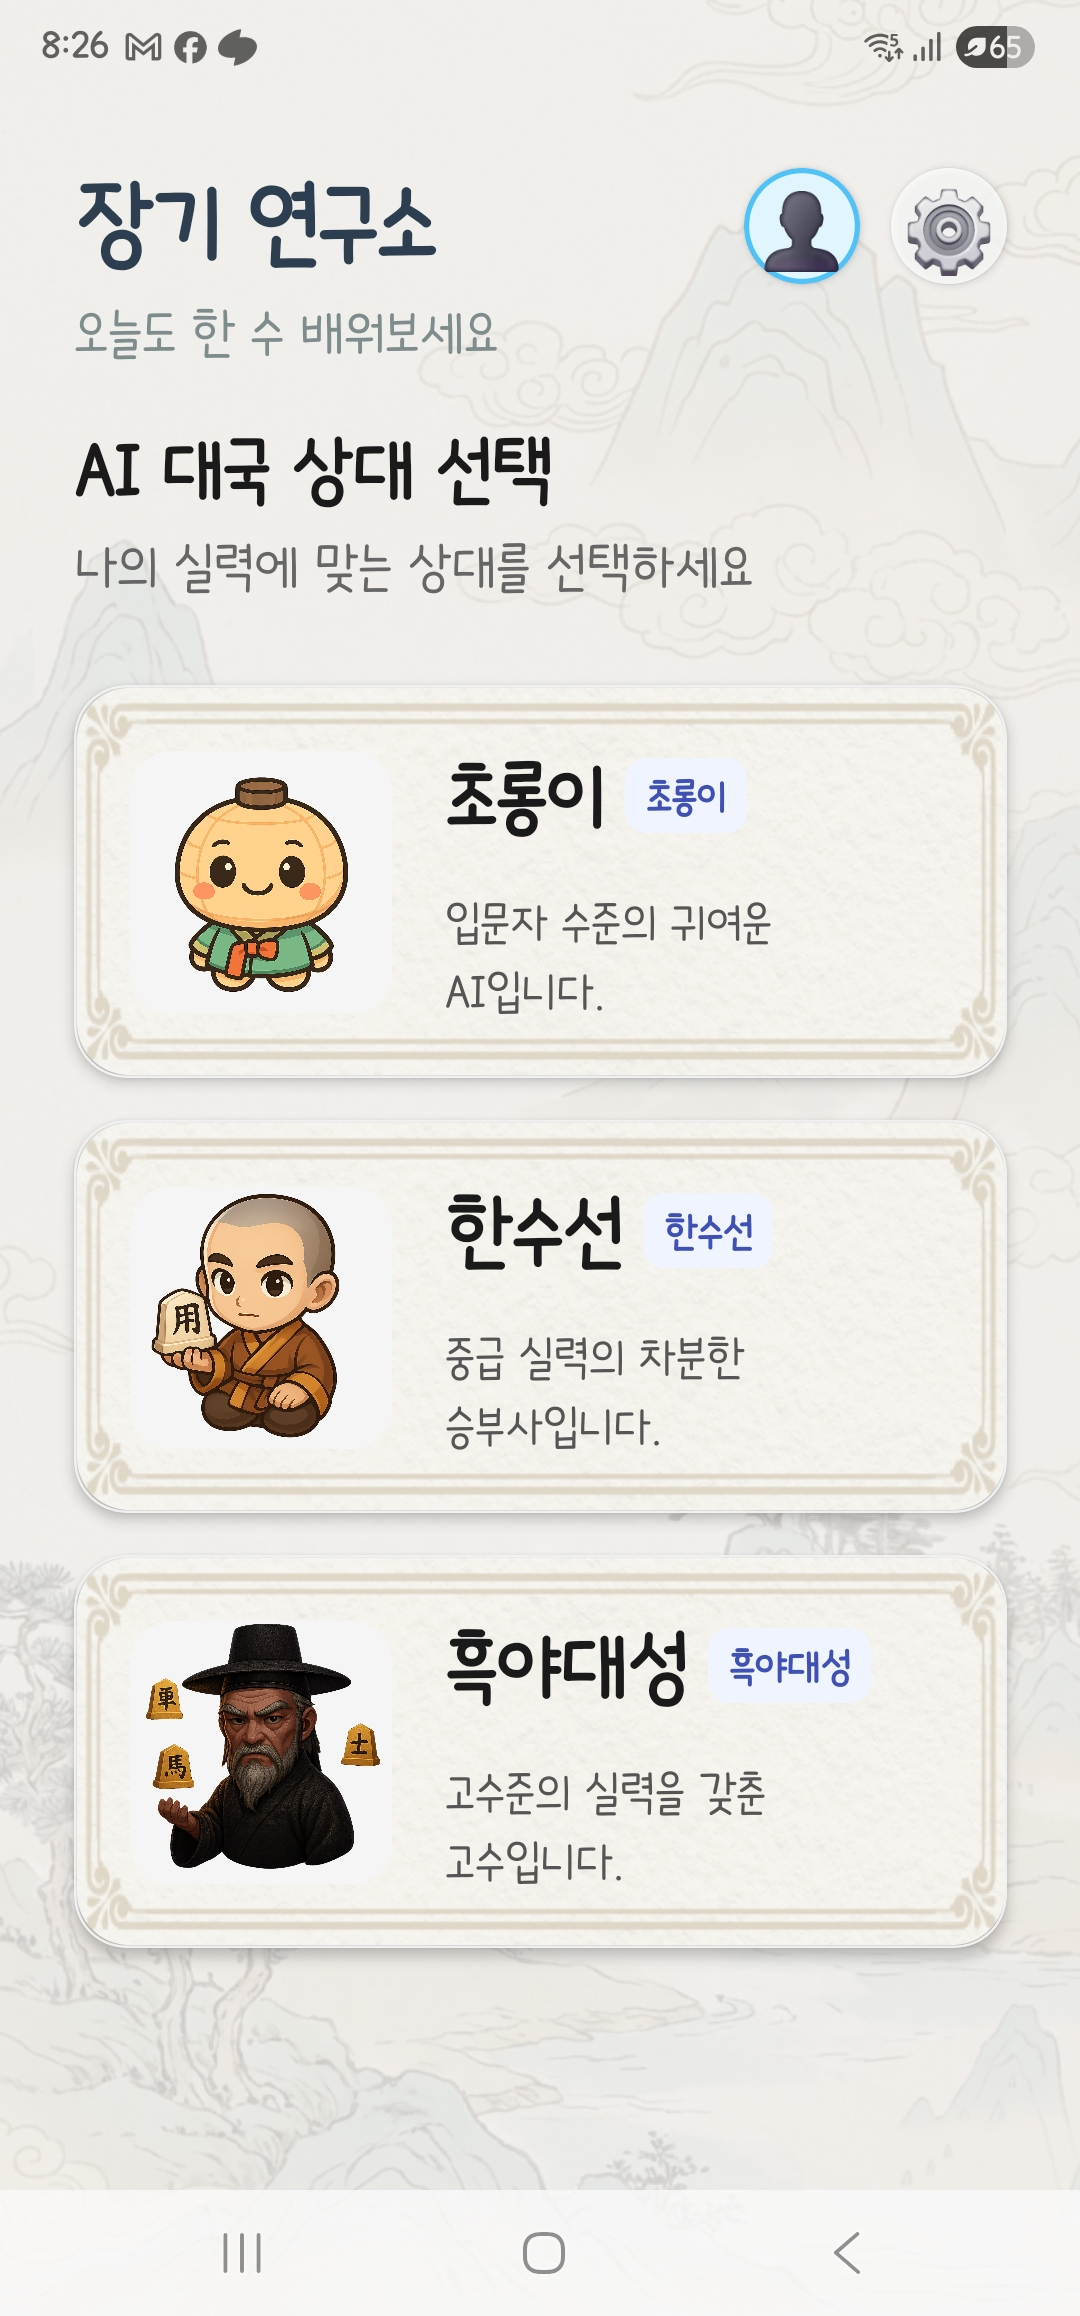
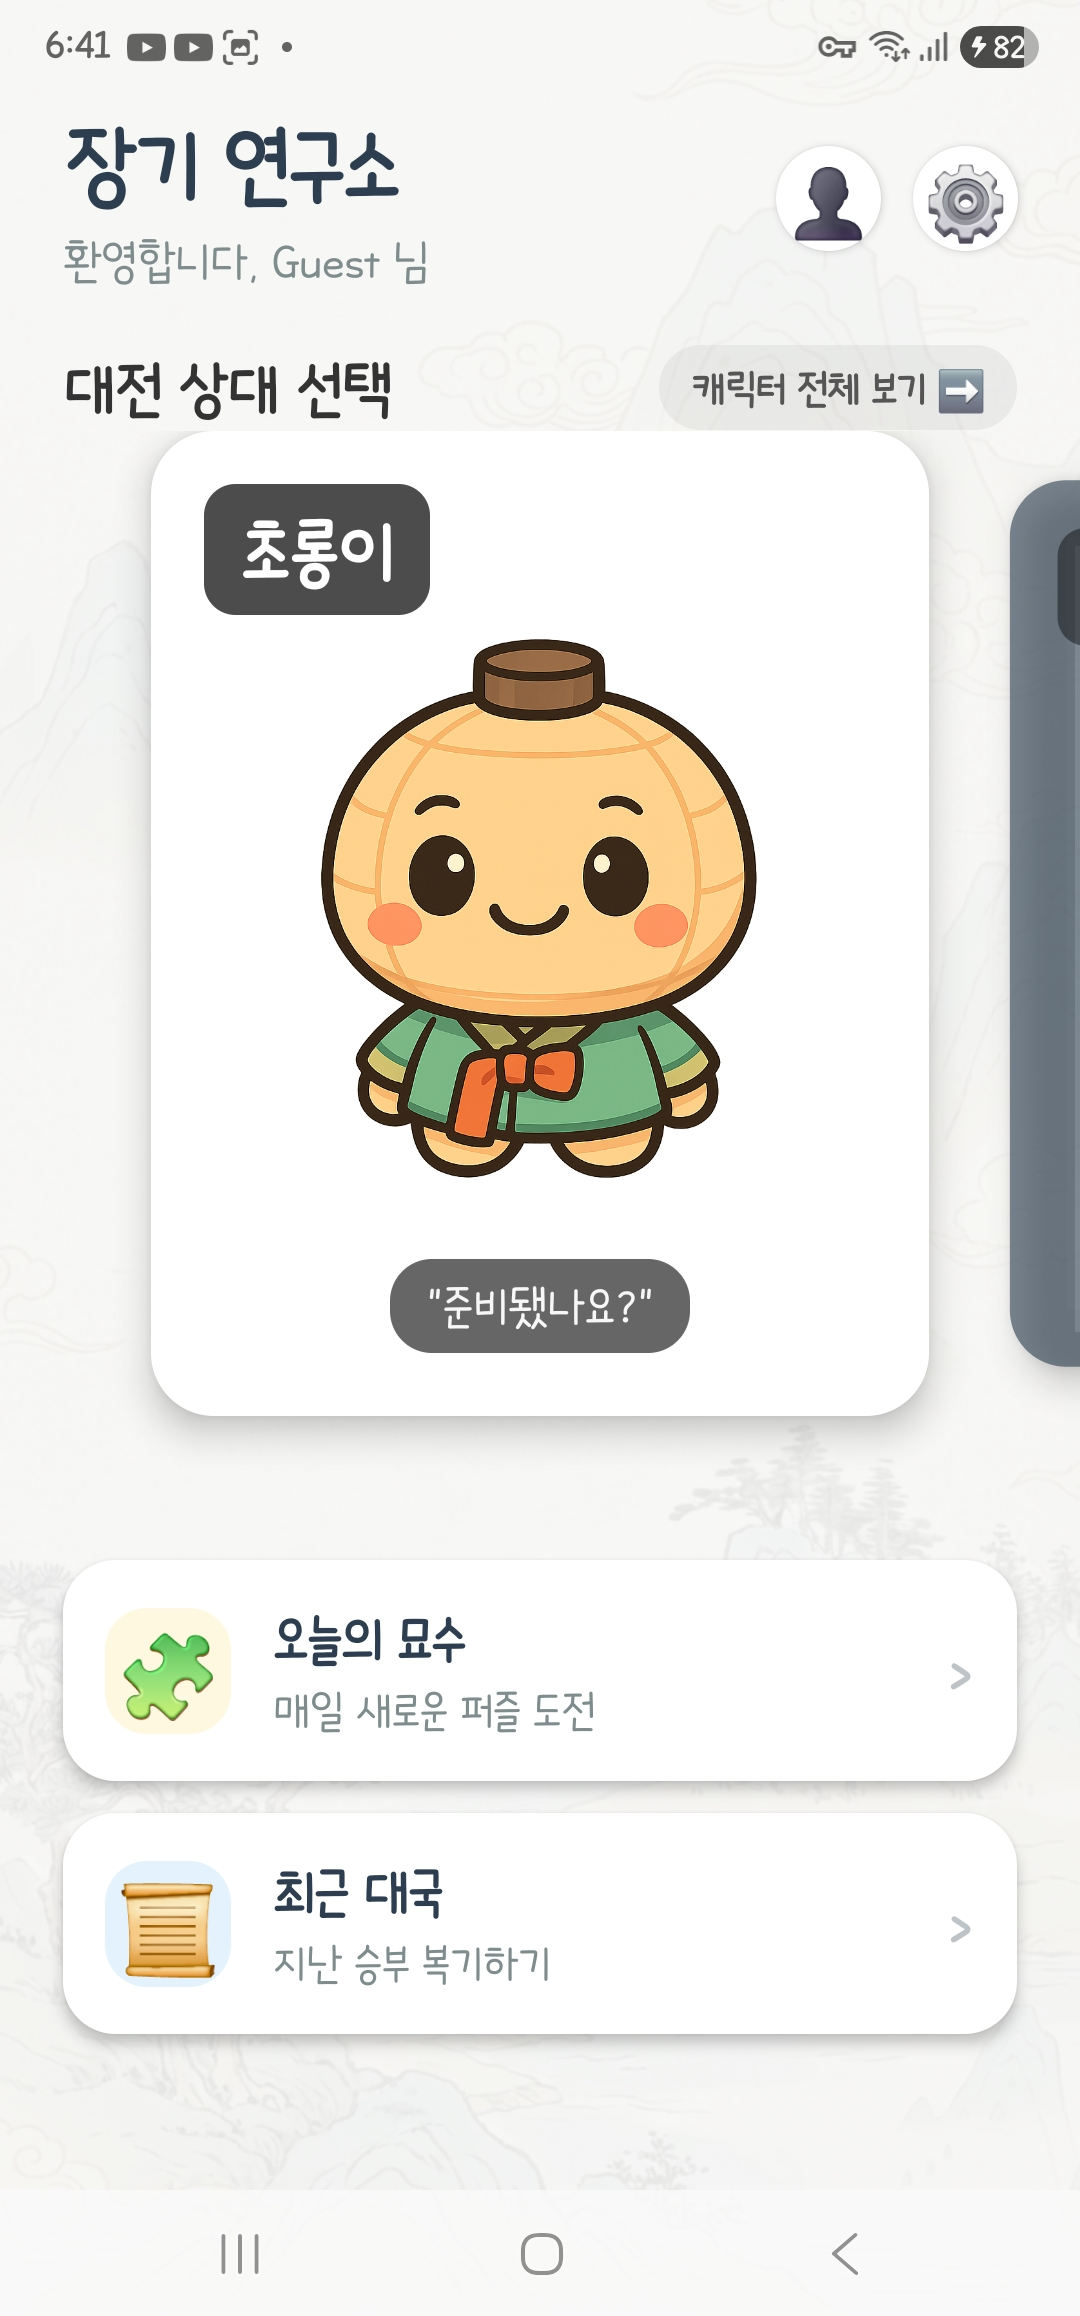
Deploying to main from @ flitsky/Janggi-App@27eb00ee27740ddaba43384ae8ec012460aa2916 🚀

diff --git a/release-note/index.html b/release-note/index.html
@@ -184,14 +184,14 @@
             <div class="version-header">
                 <div style="display: flex; align-items: center; gap: 15px;">
                     <span class="version-tag">v1.6.43</span>
-                    <h2>오늘의 묘수와 클라우드 동기화의 시작</h2>
+                    <h2>오늘의 묘수와 더욱 편리해진 대전 준비</h2>
                 </div>
                 <span class="release-date">2026년 1월 31일</span>
             </div>
 
             <p>
                 매일 새로운 장기 묘수를 풀며 실력을 키울 수 있는 '오늘의 묘수' 모드가 추가되었습니다.<br>
-                또한 구글 로그인을 통해 소중한 대국 기록과 해금한 캐릭터를 클라우드에 안전하게 보관할 수 있습니다.
+                또한 메인 화면에서 대전 상대를 선택하고 해금하는 과정이 대폭 편리해져, 더욱 쾌적하게 도전을 이어갈 수 있습니다.
             </p>
 
             <h3>✨ 주요 변경 사항 (Highlights)</h3>
@@ -209,9 +209,21 @@
                     기기를 변경해도 내 기록 그대로 이어서 즐기실 수 있습니다.
                 </li>
                 <li>
+                    <span class="tag-impr">UX</span>
+                    <strong>대전 상대 선택 편의성 개선</strong><br>
+                    이제 메인 화면에서 잠긴 캐릭터를 터치하면 즉시 광고 시청 팝업이 뜨며, 해금 진행 상황도 바로 확인할 수 있습니다.<br>
+                    더 이상 해금을 위해 별도의 메뉴로 이동하지 않아도 됩니다.
+                </li>
+                <li>
                     <span class="tag-impr">Design</span>
-                    <strong>프리미엄 UI 리뉴얼</strong><br>
-                    앱 전반에 걸쳐 더욱 세련되고 깔끔한 프리미엄 디자인 테마가 적용되었습니다.
+                    <strong>캐릭터 도감(Catalog) 리뉴얼</strong><br>
+                    기존의 캐릭터 선택 화면을 깔끔한 '도감' 형태로 개편했습니다.<br>
+                    복잡한 메뉴 없이 오직 캐릭터들의 개성과 해금 여부만을 한눈에 감상할 수 있습니다.
+                </li>
+                <li>
+                    <span class="tag-fix">Refactor</span>
+                    <strong>일관된 해금 규칙 적용</strong><br>
+                    메인 화면과 도감 화면 어디서든 동일하게 "이전 단계의 상대에게 승리하거나 광고 시청"이라는 명확한 규칙이 적용됩니다.
                 </li>
             </ul>
         </article>

diff --git a/index.html b/index.html
@@ -405,6 +405,15 @@
             <div class="screenshot-card" onclick="openModal('assets/screenshots/screenshot-4.jpg')">
                 <img src="assets/screenshots/screenshot-4.jpg" alt="대국 화면" loading="lazy">
             </div>
+            <div class="screenshot-card" onclick="openModal('assets/screenshots/screenshot-5.jpg')">
+                <img src="assets/screenshots/screenshot-5.jpg" alt="분석 및 복기" loading="lazy">
+            </div>
+            <div class="screenshot-card" onclick="openModal('assets/screenshots/screenshot-6.jpg')">
+                <img src="assets/screenshots/screenshot-6.jpg" alt="오늘의 묘수" loading="lazy">
+            </div>
+            <div class="screenshot-card" onclick="openModal('assets/screenshots/screenshot-7.jpg')">
+                <img src="assets/screenshots/screenshot-7.jpg" alt="캐릭터 도감" loading="lazy">
+            </div>
         </div>
     </section>
 
